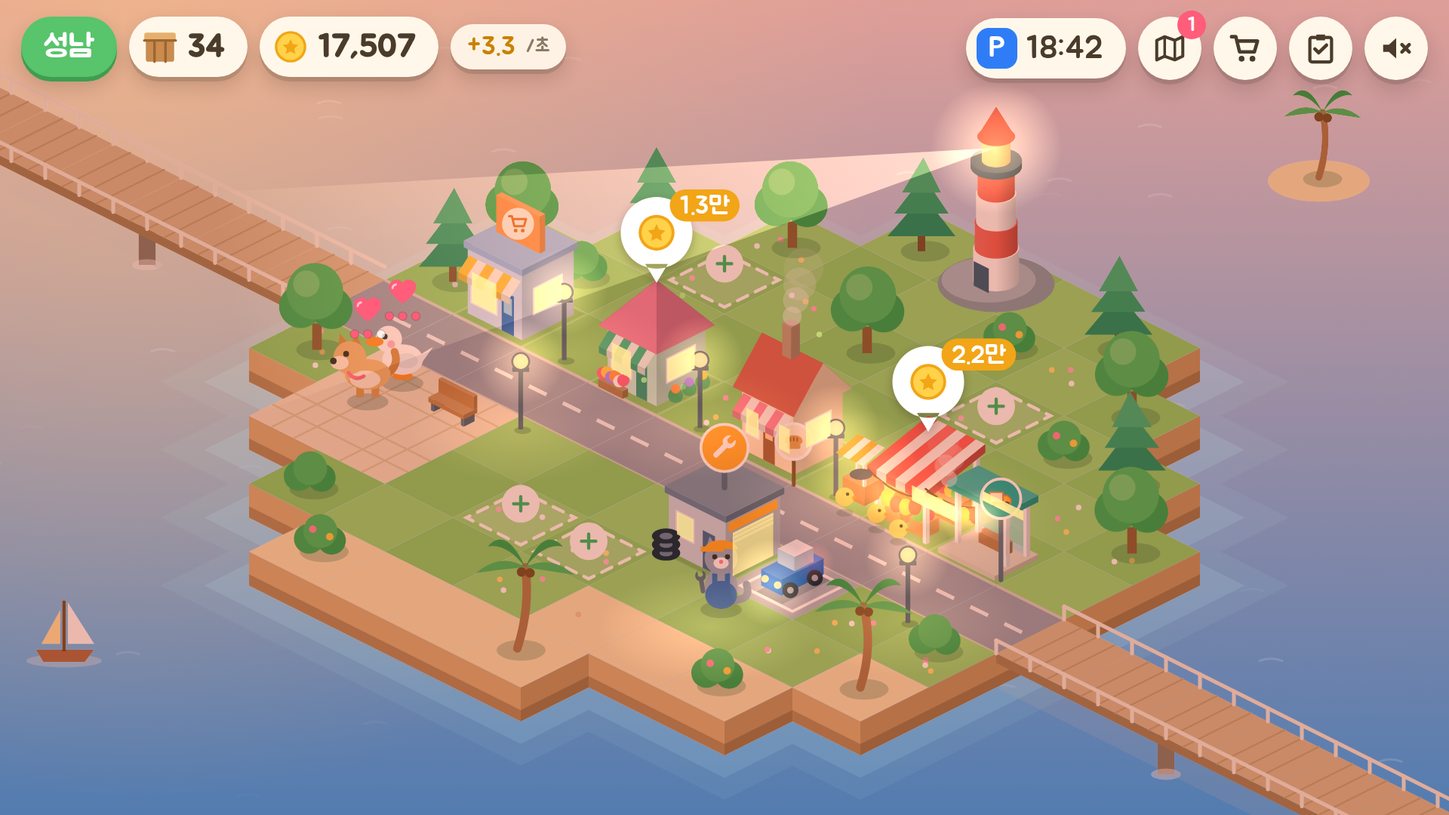
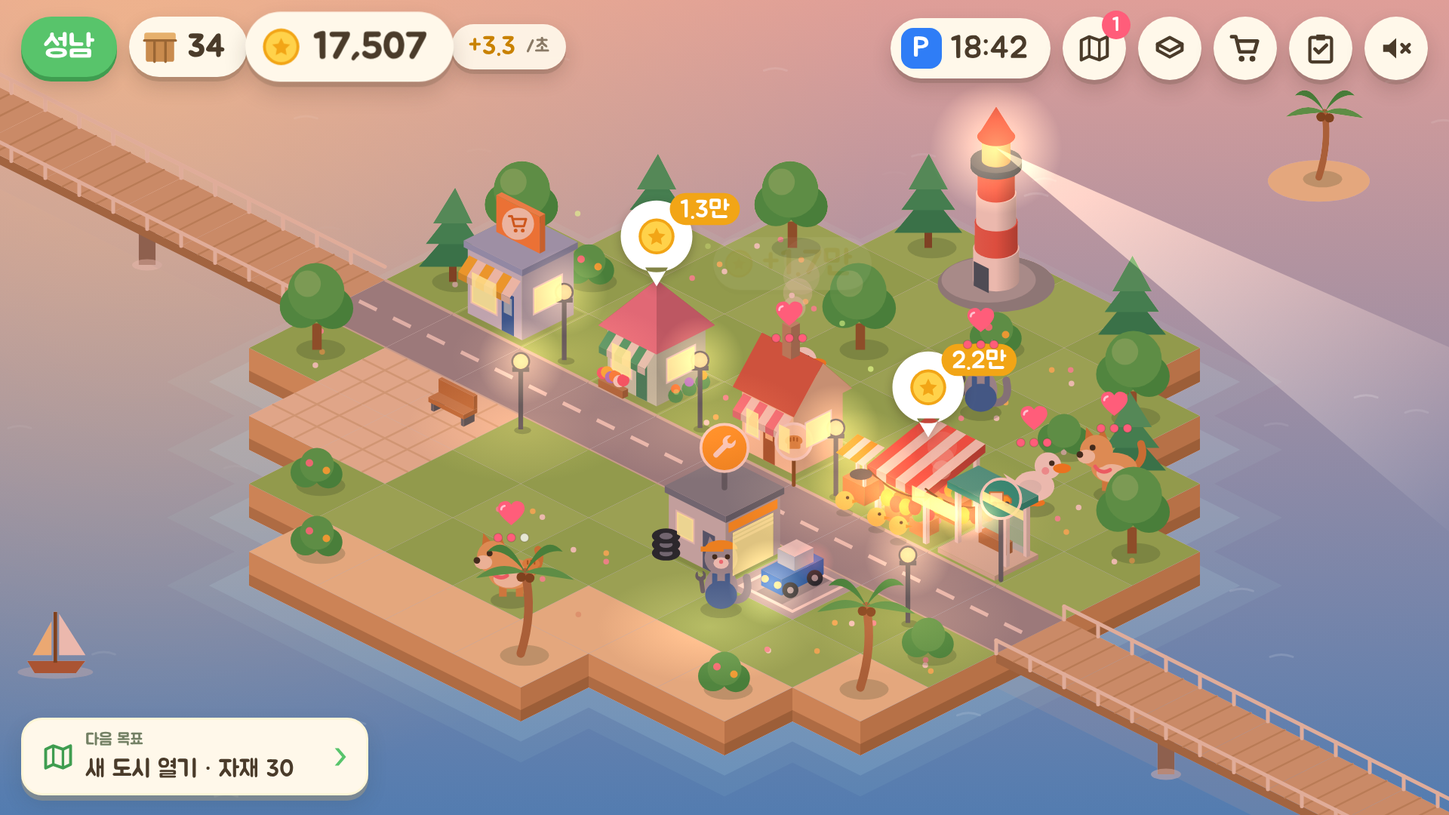
docs(game): Pleos SDK 활용 맵(SDK.md) 추가와 제출 원고·캡처 갱신
- SDK.md: SDK·도메인별 사용처·우선순위·검증 상태, SC-01~07 장면별 SDK 흐름,
  기능별 API, 선언할 퍼미션, 쓰지 않는 것(GAM-002 연료 등), 검증 계획
- PROPOSAL.md: 5번에 "Pleos SDK를 쓰는 방식" 문단, SDK 5종 기준 표,
  경고등(registerTelltales) 행. 7번에 활용 맵 자리. 확인할 것 갱신
- SCENARIO.md: SC-06·07 신호 표기를 의존 줄에 맞춤, 기술 활용성 행에 SDK.md
- README.md: 심사자가 먼저 볼 것 4줄
- 장면 캡처 7장을 최신 목업으로 다시 만듦

Claude-Session: https://claude.ai/code/session_01PXn8jUD8KT5JorKnUhTSZS

diff --git a/projects/game/SDK.md b/projects/game/SDK.md
@@ -1,0 +1,162 @@
+# Pleos SDK 활용: 내 차로 짓는 도시 (`GAM`)
+
+> 상태: **Draft** (2026-11-14 작성). 요구사항이 모두 Draft이므로 우선순위와 범위는 바뀔 수 있습니다.
+> 원천: [REQUIREMENTS.md](REQUIREMENTS.md) 각 FR의 "의존" 줄, [dev-environment.md](../../docs/contest/dev-environment.md) 4절(API 근거)·6절(퍼미션 정책). 이 문서는 원천을 모아 보여 줄 뿐이고, 어긋나면 원천을 따릅니다.
+> 검증 태그: **문서 확인**은 Pleos 공식 문서에 적혀 있다는 뜻입니다. **에뮬레이터에서 동작을 확인한 항목은 아직 없습니다.** **확인 필요**는 질문 ID([OPEN_QUESTIONS.md](OPEN_QUESTIONS.md), 공통 질문은 [open-questions.md](../../docs/open-questions.md))와 함께 적습니다.
+
+## 1. 한눈에 보기
+
+| SDK·인터페이스 | 쓰는 곳 (기능 한 줄) | 주요 API | 퍼미션 | 검증 | 우선순위 |
+|---|---|---|---|---|---|
+| Vehicle · Odometer | 달린 거리 → 건축 자재, 정비까지 남은 거리, 운전 시간 항목, 쉬어 가기 퀘스트 | 누적 주행 거리, 트립 거리·시간 | `CAR_DRIVE` | 문서 확인 | P0 (GAM-001, 006), P1 |
+| Vehicle · Brake | 급제동 없이 운전 (일일 항목) | `getCurrentBrakePedalStatus` | `CAR_DRIVE` | 문서 확인 | P1 (GAM-028) |
+| Vehicle · TurnSignal | 방향 지시등 사용 (일일 항목) | `getCurrentTurnSignalState`, `registerTurnSignalState` | `CAR_LIGHTS` | 문서 확인 | P1 (GAM-029) |
+| Vehicle · Seat | 동승석 점유 → 섬 손님, 모두 안전벨트 (일일 항목) | `getCurrentSeatOccupancy`, `registerSeatOccupancy`, `getCurrentSeatBeltBuckledState`, `registerSeatBeltBuckledState` | `CAR_SEATS` | 문서 확인. 값의 의미 확인 필요 (GAM-Q30) | P1 (GAM-034, 035) |
+| Vehicle · Safety (레벨·경고) | 차량이 확인하는 관리 퀘스트 (엔진오일·브레이크액·변속기 오일 양, 워셔액) | `getEngineOilLevelState`, `getBrakeFluidLevelState`, `getTransmissionOilLevelState`, `hasLowWasherFluidWarning`과 각 콜백 | `CAR_SAFETY` (normal) | 문서 확인. 에뮬레이터에서 값 바꾸기 확인 필요 (GAM-Q40) | P1 (GAM-048) |
+| Vehicle · Safety (경고등) | 실제 차량 경고(공기압, 과열) → 도시 이상 현상 | `registerTelltales` (`TelltaleType`의 `TPMS`, `ENGINE_TEMPERATURE`) | `PRIVATE_CAR_SAFETY` (signature\|privileged) | 문서 확인. 일반 앱이 쓸 수 있는지 확인 필요 (GAM-Q3) | P0 (GAM-009) |
+| Vehicle · CarInfo | 차종별 정비 주기 | CarInfo 조회 | `CAR_INFO` | 문서 확인. 주기 데이터 출처 확인 필요 (GAM-Q5) | P0 (GAM-006) |
+| Vehicle · EvBattery | 배터리 관리 퀘스트 (확장) | EvBattery 조회 | `CAR_ENERGY` | 문서 확인 | P2 (GAM-014) |
+| NaviHelper | 도로 주의 구간(공사, 낙석, 사고 다발 구역 등) → 돌발 퀘스트 | `onCautionPointInfo`, `onCameraAlert`, `onReRouteEnded`, `onDestinationArrived` | 리스너 퍼미션은 문서 표에 없음 (확인 필요) | 문서 확인. 에뮬레이터 수신 확인 필요 (GAM-Q31) | P1 (GAM-036) |
+| FusedLocation | 이 차가 지나간 도시에 발자국 (전국 지도, 확장 제안) | `isSupported()`, `registerFusedLocationCallback()`, `getLastKnownLocation()`, `addProximityAlert()` | `FUSED_LOCATION` (dangerous) | 문서 확인. 권역 판정 확인 필요 (GAM-Q35) | P1 (GAM-043) |
+| TextToSpeech | 장거리 운행 중 쉬어 가기 안내 한 줄 (주행 중 유일한 음성) | TextToSpeech 합성 | `TTS_SERVICE` | 문서 확인 | P1 (GAM-030) |
+| SpeechToText | 음성 조회, 음성 매뉴얼 (확장) | SpeechToText 인식 | `STT_SERVICE` | 문서 확인 | P2 (GAM-010, 015) |
+| Gleo Interface | 음성으로 보상·정비 조회 (확장) | App Schema | 확인 필요 | 공지상 사용 가능, 절차 확인 필요 (GAM-Q7) | P2 (GAM-010) |
+| AAOS Car API | 주행·주차 판단, 급가속·급감속 판정 | `CarPropertyManager` `PERF_VEHICLE_SPEED`, `GEAR_SELECTION`, `PARKING_BRAKE_ON`, `CarUxRestrictionsManager` | `Car.PERMISSION_SPEED` (Dangerous), `Car.PERMISSION_POWERTRAIN` (Normal) | 문서 확인. **공모전 범위 확인 중 (Q11)** | P0 (GAM-003, N01), P1 (GAM-027) |
+
+차량 신호가 게임의 어떤 순간을 만드는지:
+
+- **주차하는 순간**: Odometer가 잰 거리가 택배 상자의 자재가 되고, Brake·TurnSignal·Seat·AAOS 속도로 판정한 안전운전 항목이 같은 상자에 담깁니다. 희소 재화인 자재는 차량 신호로만 생깁니다([D-003](DECISIONS.md), GAM-N08).
+- **주행 중**: 앱은 기록만 하고 말하지 않습니다(GAM-N06). 예외는 쉬어 가기 안내 한 줄(TTS)입니다. 주의 구간 안내는 내비가 이미 하므로 겹쳐 말하지 않습니다(GAM-036).
+- **차가 이상을 알릴 때**: Safety 신호가 섬의 이상 현상과 관리 퀘스트가 되고, 신호가 정상으로 돌아오면 입력 없이 끝납니다(GAM-009, GAM-048). 실제 경고 카드가 항상 먼저입니다(GAM-N02).
+- **신호가 없을 때**: 도메인마다 capability를 먼저 확인하고, 없으면 그 기능만 "판정 불가"나 "표시 안 함"으로 둡니다. 값을 지어내지 않습니다.
+
+## 2. 대표 시나리오 장면별 SDK 흐름
+
+[SCENARIO.md](SCENARIO.md) 2절 "토요일 장보기"의 장면 순서입니다.
+
+| 장면 | 차량 상태 | 신호·API (퍼미션) | 앱이 하는 일 | 신호가 없을 때 | 요구사항 |
+|---|---|---|---|---|---|
+| SC-01 낮의 섬 | 주차 | 주차 판단: AAOS `GEAR_SELECTION`, `PARKING_BRAKE_ON` (`Car.PERMISSION_POWERTRAIN`), `CarUxRestrictionsManager` — 확인 필요 (GAM-Q1, Q8, Q11) | 주차가 확인되면 섬 조작을 엽니다. 시설 생산은 기기 시각으로 흐릅니다 | 판단할 수 없으면 조작을 막습니다 | GAM-031, GAM-N01 |
+| SC-02 출발하면 주행 모드 | 주행 | 주행 판단: 위와 같음. Odometer 누적 거리 (`CAR_DRIVE`) 운행 시작값 기록 | 열린 창을 닫고 조작을 막습니다. 운행 시작 시점의 누적 거리와 일일 항목 신호를 기록만 합니다 | 판단할 수 없으면 주행으로 봅니다 | GAM-N01, GAM-N06 |
+| SC-03 주차하면 택배가 온다 | 주차 | Odometer 누적 거리·트립 시간 (`CAR_DRIVE`), Brake `getCurrentBrakePedalStatus` (`CAR_DRIVE`), TurnSignal 상태 콜백 (`CAR_LIGHTS`), AAOS `PERF_VEHICLE_SPEED` (`Car.PERMISSION_SPEED`, Q11) | 운행 전·후 누적 거리 차이로 자재를 주고, 일일 항목을 판정해 택배 카드에 근거와 함께 보여 줍니다 | Odometer가 없으면 자재를 적립하지 않습니다. 항목별 신호가 없으면 "판정 불가"로 둡니다 | GAM-001, GAM-003, GAM-018, GAM-025~029 |
+| SC-04 시장을 짓고 야시장으로 | 주차 | 차량 신호 없음 (로컬 저장). 조작 허용에만 주차 판단 | 자재로 시설을 짓습니다 | 주차를 판단할 수 없으면 짓기를 막습니다 | GAM-004, GAM-005, GAM-019 |
+| SC-05 거두고, 사고, 쓰다듬기 | 주차 | 차량 신호 없음 (로컬 저장, 기기 시각) | 시설이 번 골드를 거두고 상점을 씁니다 | 위와 같음 | GAM-031~033 |
+| SC-06 정비소 주민의 정비 알림 | 주차 | Odometer 누적 거리 (`CAR_DRIVE`), CarInfo (`CAR_INFO`). 정비 이력 API는 없음 — 미지원 (GAM-Q4) | 마지막 교체 기록과 누적 거리로 남은 거리·기간을 계산하고 `점검 권장`까지만 말합니다 | 정비 이력은 사용자 기록으로 대신합니다. 주기 데이터가 없으면 확인 필요 (GAM-Q5) | GAM-006, GAM-007, GAM-N05 |
+| SC-07 공기압 경고와 일렁이는 길 | 경고 | Safety `registerTelltales` (`TelltaleType`의 `TPMS`) (`PRIVATE_CAR_SAFETY`) — 일반 앱 사용 여부 확인 필요 (GAM-Q3) | 실제 경고 카드를 맨 위에 띄우고 섬의 길을 일렁이게 합니다. 경고가 풀리면 둘 다 사라집니다 | 경고 신호를 받을 수 없으면 이상 현상을 만들지 않습니다. 경고를 추측하지 않습니다 | GAM-009, GAM-N02 |
+
+대표 시나리오 밖에서 SDK를 쓰는 장면 (UC 연결):
+
+| 장면 | 신호·API | 요구사항 |
+|---|---|---|
+| 동승자가 타면 섬에 손님, 모두 안전벨트를 매고 출발 | Seat 좌석 점유·안전벨트 체결 (`CAR_SEATS`) | GAM-UC-005, GAM-034, GAM-035 |
+| 경로의 공사·낙석 구간을 지나오면 섬의 길도 정리 | NaviHelper `onCautionPointInfo`, `onCameraAlert`, `onReRouteEnded`, `onDestinationArrived` | GAM-UC-006, GAM-036 |
+| 장거리 운행 중 쉬어 가기 안내 → 주차해 쉬면 완료 | Odometer 트립 시간 (`CAR_DRIVE`), TextToSpeech (`TTS_SERVICE`) | GAM-UC-002, GAM-030 |
+| 엔진오일 양이 모자라다는 신호 → 정상으로 돌아오면 완료 | Safety `getEngineOilLevelState` 등 (`CAR_SAFETY`) | GAM-048 |
+| 이 차가 지나간 도시에 발자국 | FusedLocation (`FUSED_LOCATION`) | GAM-043 |
+
+## 3. 기능별 API 목록
+
+근거 열은 [dev-environment.md](../../docs/contest/dev-environment.md)의 절입니다.
+
+### 3.1 Vehicle
+
+| API·콜백 | 퍼미션 | 용도 | 요구사항 | 검증 | 근거 |
+|---|---|---|---|---|---|
+| Odometer 누적 주행 거리 | `CAR_DRIVE` | 운행 거리 자재, 정비까지 남은 거리, 정비 현황 | GAM-001, 006, 018, 022 | 문서 확인 | 4.2 |
+| Odometer 트립 거리·시간 | `CAR_DRIVE` | 운전 시간 항목, 쉬어 가기, 단거리 비율(확장) | GAM-026, 030, 013 | 문서 확인. 초기화 시점·정차 포함 여부 확인 필요 (GAM-Q25) | 4.2, 4.3.1 |
+| Brake `getCurrentBrakePedalStatus` | `CAR_DRIVE` | 급제동 판정 보조 | GAM-028 | 문서 확인 | 4.2 |
+| `checkTurnSignalStateCapabilities`, `getCurrentTurnSignalState`, `registerTurnSignalState` | `CAR_LIGHTS` | 방향 지시등 항목 | GAM-029 | 문서 확인 | 4.2 |
+| Seat `checkSeatOccupancyCapabilities`, `getCurrentSeatOccupancy`, `registerSeatOccupancy` | `CAR_SEATS` | 섬 손님 연출 | GAM-034 | 문서 확인. 값의 의미 확인 필요 (GAM-Q30) | 4.2 |
+| Seat `checkSeatBeltBuckledCapabilities`, `getCurrentSeatBeltBuckledState`, `registerSeatBeltBuckledState` | `CAR_SEATS` | 모두 안전벨트 항목 | GAM-035 | 문서 확인. 값의 의미 확인 필요 (GAM-Q30) | 4.2 |
+| Safety `getEngineOilLevelState`, `registerEngineOilLevelState`, `getBrakeFluidLevelState`, `getTransmissionOilLevelState`, `hasLowWasherFluidWarning`, `registerLowWasherFluidWaringState` | `CAR_SAFETY` (normal) | 차량이 확인하는 관리 퀘스트 | GAM-048 | 문서 확인. 에뮬레이터 값 확인 필요 (GAM-Q40) | 4.2.1 |
+| Safety `registerTelltales` (`TPMS`, `ENGINE_TEMPERATURE`) | `PRIVATE_CAR_SAFETY` (signature\|privileged) | 도시 이상 현상 | GAM-009 | 문서 확인. 일반 앱 사용 여부 확인 필요 (GAM-Q3) | 4.2.1 |
+| Safety `registerSeatBeltNotBuckledWarning` | `CAR_SAFETY` | 쓰지 않음. 차량 자체 경고를 앱이 대신하거나 가리지 않음 | GAM-UC-005, GAM-N02 | 문서 확인 | 4.2 |
+| CarInfo | `CAR_INFO` | 차종별 정비 주기 | GAM-006 | 문서 확인. 주기 데이터 출처 확인 필요 (GAM-Q5) | 4.2 |
+| EvBattery | `CAR_ENERGY` | 배터리 관리 퀘스트 | GAM-014 (P2) | 문서 확인. 12V 배터리 신호 확인 필요 (GAM-Q14) | 4.2 |
+
+### 3.2 NaviHelper
+
+| API·콜백 | 퍼미션 | 용도 | 요구사항 | 검증 | 근거 |
+|---|---|---|---|---|---|
+| `onCautionPointInfo(List<CautionPoint>)` — `id`, `type`(`CautionPointType`), `remainDistance` | 확인 필요 | 주의 구간 돌발 퀘스트 생성·지나감 판정 | GAM-036 | 문서 확인. 에뮬레이터 수신 확인 필요 (GAM-Q31) | 4.4.1 |
+| `onCameraAlert(List<CameraAlert>)` — `isOverSpeed`, `type`(`CameraType`) | 확인 필요 | 어린이 보호구역 안전 통과 판정 | GAM-036 | 문서 확인 (GAM-Q31) | 4.4.1 |
+| `onReRouteEnded()`, `onDestinationArrived()` | 확인 필요 | 우회 표시, 도착 후 완료 | GAM-036, 037 | 문서 확인 | 4.4.1 |
+| `requestRoute()` | `NAVI_ROUTE_SEARCH` | 배터리 리프레시 코스 제안 (확장) | GAM-014 (P2) | 문서 확인 | 4.4 |
+
+- 쓰는 `CautionPointType` 후보와 섬 연출은 [ROAD-INFO.md](ROAD-INFO.md) 2절에 있습니다. `ACCIDENT_PRONE_AREA`는 사고 다발 구역이고 실시간 사고가 아닙니다(GAM-N07).
+
+### 3.3 FusedLocation
+
+| API·콜백 | 퍼미션 | 용도 | 요구사항 | 검증 | 근거 |
+|---|---|---|---|---|---|
+| `isSupported()`, `registerFusedLocationCallback()`, `getLastKnownLocation()`, `addProximityAlert()` | `FUSED_LOCATION` (dangerous) | 도시 발자국 (지도 표시만, 재화 없음, D-004) | GAM-043 | 문서 확인. 권역 판정 확인 필요 (GAM-Q35) | 4.5 |
+
+### 3.4 음성 (TextToSpeech, SpeechToText, Gleo Interface)
+
+| API | 퍼미션 | 용도 | 요구사항 | 검증 | 근거 |
+|---|---|---|---|---|---|
+| TextToSpeech | `TTS_SERVICE` | 쉬어 가기 안내 한 줄. 차량 경고나 내비 안내 중이면 미룸 | GAM-030 | 문서 확인 | 4.5 |
+| SpeechToText | `STT_SERVICE` | 음성 조회·음성 매뉴얼 (확장) | GAM-010, 015 (P2) | 문서 확인 | 4.5 |
+| Gleo Interface (App Schema) | 확인 필요 | 음성 명령으로 앱 기능 호출 (확장) | GAM-010 (P2) | 공지상 사용 가능, 절차 확인 필요 (GAM-Q7) | 4, 4.5 |
+
+### 3.5 AAOS Car API (공모전 범위 확인 중, Q11)
+
+| API·프로퍼티 | 권한 (보호 수준) | 용도 | 요구사항 | 검증 | 근거 |
+|---|---|---|---|---|---|
+| `CarPropertyManager` `PERF_VEHICLE_SPEED` | `Car.PERMISSION_SPEED` (Dangerous) | 급가속·급감속·급제동 판정 | GAM-027, 028 | 문서 확인. 에뮬레이터 속도 시연 확인 필요 (GAM-Q23) | 4.3 |
+| `GEAR_SELECTION`, `PARKING_BRAKE_ON` | `Car.PERMISSION_POWERTRAIN` (Normal) | 주차 판단 | GAM-003, N01 | 확인 필요 (GAM-Q1, Q8) | 4.3 |
+| `CarUxRestrictionsManager` `registerListener()` | 확인 필요 | 주행 중 UX 제한 | GAM-N01 | 확인 필요 (Q8) | 4.3 |
+
+- Q11이 "불가"이면 Odometer 주행 거리 변화로 주행 여부를 어림하고, 속도가 필요한 두 항목은 "판정 불가"로 둡니다(4.3.1절).
+
+## 4. 선언할 퍼미션
+
+최소 퍼미션 원칙을 따릅니다. 공모전 단계에서는 매니페스트 선언만으로 에뮬레이터에서 쓸 수 있고, 정식 심사는 App Market 배포 때입니다([dev-environment.md](../../docs/contest/dev-environment.md) 6절).
+
+| 퍼미션 | 보호 수준 | 이유 | 요구사항 |
+|---|---|---|---|
+| `pleos.car.permission.CAR_DRIVE` | 문서에 표기 없음 | Odometer, Brake | GAM-001, 006, 026, 028, 030 |
+| `pleos.car.permission.CAR_LIGHTS` | 문서에 표기 없음 | TurnSignal | GAM-029 |
+| `pleos.car.permission.CAR_SEATS` | 문서에 표기 없음 | Seat 점유·안전벨트 | GAM-034, 035 |
+| `pleos.car.permission.CAR_SAFETY` | normal | Safety 레벨·워셔액 | GAM-048 |
+| `pleos.car.permission.PRIVATE_CAR_SAFETY` | signature\|privileged | 경고등(TPMS, 과열). 일반 앱에 주어지지 않을 수 있음 | GAM-009 (GAM-Q3) |
+| `pleos.car.permission.CAR_INFO` | 문서에 표기 없음 | CarInfo | GAM-006 |
+| `NAVI_ROUTE` | 문서에 표기 없음 | NaviHelper 정보 조회 | GAM-036 (리스너 퍼미션 확인 필요) |
+| `FUSED_LOCATION` | dangerous (실행 중 동의) | 도시 발자국 | GAM-043 |
+| `TTS_SERVICE` | 문서에 표기 없음 | 쉬어 가기 안내 | GAM-030 |
+| `Car.PERMISSION_SPEED` | Dangerous (실행 중 동의) | 급가속·급감속·급제동 | GAM-027, 028 (Q11) |
+| `Car.PERMISSION_POWERTRAIN` | Normal | 기어, 주차 브레이크 | GAM-003, N01 (Q11) |
+
+- Dangerous 권한을 거부하면 그 권한이 필요한 항목만 "판정 불가"나 "발자국 없음"으로 두고, 나머지 기능은 그대로 동작합니다(GAM-027, GAM-043).
+- P2 기능(SpeechToText, EvBattery, NaviHelper `NAVI_ROUTE_SEARCH`)의 퍼미션은 그 기능을 만들 때만 선언합니다.
+
+## 5. 쓰지 않는 것과 이유
+
+| 쓰지 않는 것 | 이유 | 근거 |
+|---|---|---|
+| 차량 제어 (`CONTROL_CAR_*`) | 게임이 차를 움직이지 않습니다. 음성 차량 제어(GAM-016)는 범위가 정해지지 않았습니다 | GOAL Non-goals, GAM-Q16 |
+| Tire `getLowTirePressure` | 저압 **기준값**만 주므로 공기압 경고로 쓸 수 없습니다 | dev-environment 4.2.1 |
+| AAOS `TIRE_PRESSURE`, `ENGINE_COOLANT_TEMP` | Signature\|Privileged 권한이라 일반 앱이 읽을 수 없습니다 | dev-environment 4.2.1 |
+| 정비 이력 API | 없습니다. 교체 기록은 사용자가 입력합니다 | GAM-006, GAM-Q4 |
+| Vehicle Fuel (연료 사용 보상) | 연료를 많이 쓸수록 보상이 커지는 구조를 피했습니다 | D-002, GAM-002 Dropped |
+| 외부 음성 인식 | 차량 마이크 음성은 SpeechToText로만 처리합니다 | dev-environment 4.5 |
+| Pleos LLM SDK | 공모전 기간 중 제공되지 않습니다 | dev-environment 4 |
+| 실시간 사고 정보 API | Pleos SDK와 AAOS에 없습니다. 외부 공공 API는 공모전 범위 확인 전이라 P2로 둡니다 | GAM-037, GAM-Q32, [ROAD-INFO.md](ROAD-INFO.md) |
+
+## 6. 검증 계획과 현재 상태
+
+**현재 상태:** [HTML 목업](../../spikes/game-isometric/README.md)은 차량 신호를 화면 밖 시뮬레이터 값으로 넣습니다. **Pleos SDK와 에뮬레이터에는 아직 연결하지 않았습니다.** 1차 접수의 화면과 영상은 이 목업으로 만듭니다.
+
+에뮬레이터(Pleos Connect Emulator v2.1.0)에서 확인할 순서 (2차 PT 전까지):
+
+| 순서 | 확인할 것 | 질문 |
+|---|---|---|
+| 1 | 주행·주차 판단: AAOS 기어·주차 브레이크와 `CarUxRestrictionsManager`가 오는지, 공모전 범위 답변 | GAM-Q1, Q8, Q11 |
+| 2 | Odometer 누적 거리와 트립 시간이 Virtual Console로 바뀌는지, 앱이 화면에 없을 때 콜백을 받는지 | GAM-Q2, GAM-Q25 |
+| 3 | 경고등 `registerTelltales`를 일반 앱에서 쓸 수 있는지 (`PRIVATE_CAR_SAFETY`) | GAM-Q3 |
+| 4 | Seat 좌석 점유·안전벨트 값의 의미, Virtual Console "좌석 점유" | GAM-Q30 |
+| 5 | NaviHelper 주의 구간·단속 카메라 이벤트가 경로 안내 중에 오는지 | GAM-Q31 |
+| 6 | Safety 레벨 신호(엔진오일 등)를 바꿀 수 있는지 | GAM-Q40 |
+| 7 | 속도를 바꿀 방법이 없을 때 급가속·급제동 시연 방법 | GAM-Q23 |
+
+확인한 항목은 [REQUIREMENTS.md](REQUIREMENTS.md)의 의존 줄에 `에뮬레이터 검증 (v2.1.0, 날짜, 확인자 별칭)`으로 적고, 이 문서를 다시 맞춥니다.

diff --git a/projects/game/SCENARIO.md b/projects/game/SCENARIO.md
@@ -89,7 +89,7 @@
 - 상황: 엔진오일 교체 기준(거리 또는 기간)에 닿았습니다.
 - 사용자 행동: 정비소 주민 말풍선이나 `엔진오일 점검 권장` 배너를 누르고, 정비 후 `교체 기록`에 날짜와 주행거리를 넣어 저장합니다.
 - 앱 응답: 정비 돌발 퀘스트가 생기고, 주차 중 섬에서 정비소 주민 말풍선과 배너로 알립니다(GAM-UC-002 A4, GAM-007). 차량 관리 화면에 남은 거리와 기간, 먼저 오는 쪽, 주기 출처, `점검 권장`이 나오고, 입력값과 차량 신호를 구분합니다(A5, GAM-006, GAM-N05). 기록을 저장하면 퀘스트가 완료되고 자재를 받고 다음 주기가 시작됩니다(A6, GAM-007).
-- 차량 신호·SDK: Vehicle Odometer (CAR_DRIVE) — 문서 확인, CarInfo (CAR_INFO) — 문서 확인, 차종별 주기 데이터 — 확인 필요 (GAM-Q5), 정비 이력 API — 확인 필요 (GAM-Q4)
+- 차량 신호·SDK: Vehicle Odometer (CAR_DRIVE) — 문서 확인, CarInfo (CAR_INFO) — 문서 확인, 차종별 주기 데이터 — 확인 필요 (GAM-Q5), 정비 이력 API — 미지원 (2026-11-14 확인, GAM-Q4). 대체 동작은 사용자 기록
 - 오판 방지·대체 동작: 주행 중에는 화면으로 알리지 않습니다(GAM-007). 정비 시점은 "점검 권장"까지만 말하고 진단으로 단정하지 않습니다(GAM-N05). 기록하지 않고 닫아도 불이익이 없고, 퀘스트는 퀘스트 현황에 남습니다(A5). 목업의 주기(10,000km 또는 12개월)는 출처 없는 예시 데이터입니다 — TODO (GAM-Q5)
 - 시연 방법: 시뮬레이터 정비 상태 `기준 도달` → 정비소 주민 또는 `엔진오일 점검 권장` → `교체 기록` → `저장`(목업 README 4절 순서 6).
 - 캡처·영상: [SC-06.png](assets/scenes/SC-06.png) · 영상 TODO
@@ -99,7 +99,7 @@
 - 상황: 차량이 타이어 공기압 경고를 보냅니다.
 - 사용자 행동: 경고를 확인합니다. 섬에서 따로 조작하지 않아도 됩니다.
 - 앱 응답: 어느 화면이든 맨 위에 실제 경고명과 안내 카드를 띄우고, 섬의 길이 일렁입니다. 경고가 풀리면 카드와 효과가 함께 사라집니다(GAM-009, SCREENS.md S10).
-- 차량 신호·SDK: Vehicle Safety (CAR_SAFETY) — 문서 확인, Tire (CAR_SAFETY) — 문서 확인, 경고 종류(공기압, 과열) — 확인 필요 (GAM-Q3)
+- 차량 신호·SDK: 공기압·과열 경고는 Vehicle Safety 경고등 `registerTelltales`(`TelltaleType`의 `TPMS`, `ENGINE_TEMPERATURE`) — 문서 확인. 필요한 퍼미션이 `PRIVATE_CAR_SAFETY`(signature|privileged)라서 일반 앱이 쓸 수 있는지 확인 필요 (GAM-Q3). Tire `getLowTirePressure`는 저압 기준값만 주므로 경고로 쓸 수 없다 — 문서 확인([SDK.md](SDK.md) 2절)
 - 오판 방지·대체 동작: 도시 효과는 경고 안내를 가리거나 늦추지 않습니다(GAM-N02). 차량 신호로 받은 경고만 표시하고 경고를 추측하지 않습니다(GAM-009). 목업의 경고명과 안내 문구는 임시 문구입니다 — TODO (GAM-Q3)
 - 시연 방법: 시뮬레이터 `타이어 공기압`을 켰다 끕니다. `엔진 과열`도 같은 방식입니다(목업 README 4절 순서 7).
 - 캡처·영상: [SC-07.png](assets/scenes/SC-07.png) · 영상 TODO
@@ -121,5 +121,5 @@
 |---|---|---|
 | 차량특화성 | SC-02, SC-03, SC-07 | 보상의 근거가 차량이 잰 누적 거리와 운전 신호이고, 운행이 끝난 자리의 차량 화면에서 결과가 열리며, 실제 차량 경고와 섬의 변화가 한 화면에 함께 나타납니다. 주행 중에는 조작을 막습니다 |
 | 창의성 | SC-03, SC-04, SC-07 | 반복되는 일상 운전과 잊기 쉬운 정비를 섬을 키우는 놀이로 묶고, 위험 운전 대신 급제동 없이 운전한 날을 보상합니다 |
-| 기술 활용성 | SC-03, SC-06, SC-07 | Vehicle Odometer(자재, 정비 남은 거리), TurnSignal·Brake(일일 항목), Safety·Tire(경고), CarInfo(차종별 주기)를 씁니다. 에뮬레이터 검증은 아직 하지 않았습니다 — TODO (GAM-Q2) |
+| 기술 활용성 | SC-03, SC-06, SC-07 | Vehicle Odometer(자재, 정비 남은 거리), TurnSignal·Brake(일일 항목), Safety 경고등(경고), CarInfo(차종별 주기)를 씁니다. 장면 밖에서 Seat(동승 안전벨트), NaviHelper(도로 주의 구간), Safety 레벨 신호(관리 퀘스트), TextToSpeech(쉬어 가기)도 씁니다. 전체 목록은 [SDK.md](SDK.md). 에뮬레이터 검증은 아직 하지 않았습니다 — TODO (GAM-Q2) |
 | 사업성 | SC-01, SC-05, SC-06 | 주차할 때마다 택배가 오고, 완성품과 쓰다듬기가 시간에 따라 다시 쌓여 들를 이유가 생깁니다. 정비 시기도 함께 챙깁니다. 타깃 규모와 지표 근거는 TODO (GAM-Q8) |

diff --git a/projects/game/README.md b/projects/game/README.md
@@ -2,6 +2,13 @@
 
 > 운행과 소모 기록으로 보상을 얻고, 원하는 모습으로 도시를 키운다. 도시를 보러 오는 길에 차량 관리 시기도 알아차린다.
 
+**심사자가 먼저 볼 것**
+
+1. [PROPOSAL.md](PROPOSAL.md): 접수양식 02 원고 (초안)
+2. [SCENARIO.md](SCENARIO.md): 대표 시나리오 "토요일 장보기"를 장면 7개로 설명한 가이드와 장면 캡처
+3. [SDK.md](SDK.md): Pleos SDK를 어디에 어떻게 쓰는지 한눈에 보는 맵 (API, 퍼미션, 검증 상태)
+4. [HTML 목업](../../spikes/game-isometric/README.md): `spikes/game-isometric/index.html`을 브라우저로 엽니다. 차량 신호는 시뮬레이터 값이고 SDK에는 아직 연결하지 않았습니다
+
 - 단계: **정의**. Goal은 Draft이고 요구사항은 후보 상태입니다.
 - owner: (별칭, [README 팀 표](../../README.md#팀) 참고)
 - 원본 기획: [draft/proposal-game.png](../../draft/proposal-game.png) (v0.1), 케어 요소는 [draft/proposal-care.html](../../draft/proposal-care.html) (CarCare Mate, game에 흡수, [D-001](DECISIONS.md)). 원본은 고치지 않습니다.
@@ -13,6 +20,8 @@
 | [REQUIREMENTS.md](REQUIREMENTS.md) | ID별 요구사항 (`GAM-###`, `GAM-N##`) |
 | [SCREENS.md](SCREENS.md) | (제안) 공모전에서 보여줄 장면, 화면 목록, 시연 영상 순서 |
 | [SCENARIO.md](SCENARIO.md) | 코어 시나리오 가이드 (`GAM-SC-##`, Draft). 장면 표가 [목업 틀](../../spikes/mockup-frame/README.md)과 시연 영상의 원본 |
+| [SDK.md](SDK.md) | Pleos SDK 활용 맵: SDK별 쓰는 곳, 장면별 신호 흐름, 퍼미션, 쓰지 않는 것, 검증 계획 |
+| [ROAD-INFO.md](ROAD-INFO.md) | 도로 주의 구간과 외부 실시간 돌발 정보 연계안 |
 | [PROPOSAL.md](PROPOSAL.md) | 접수양식 02의 1~8번 원고 |
 | [OPEN_QUESTIONS.md](OPEN_QUESTIONS.md) | 아직 모르는 것 (`GAM-Q#`) |
 | [DECISIONS.md](DECISIONS.md) | 이 프로젝트에서 정한 것 |
